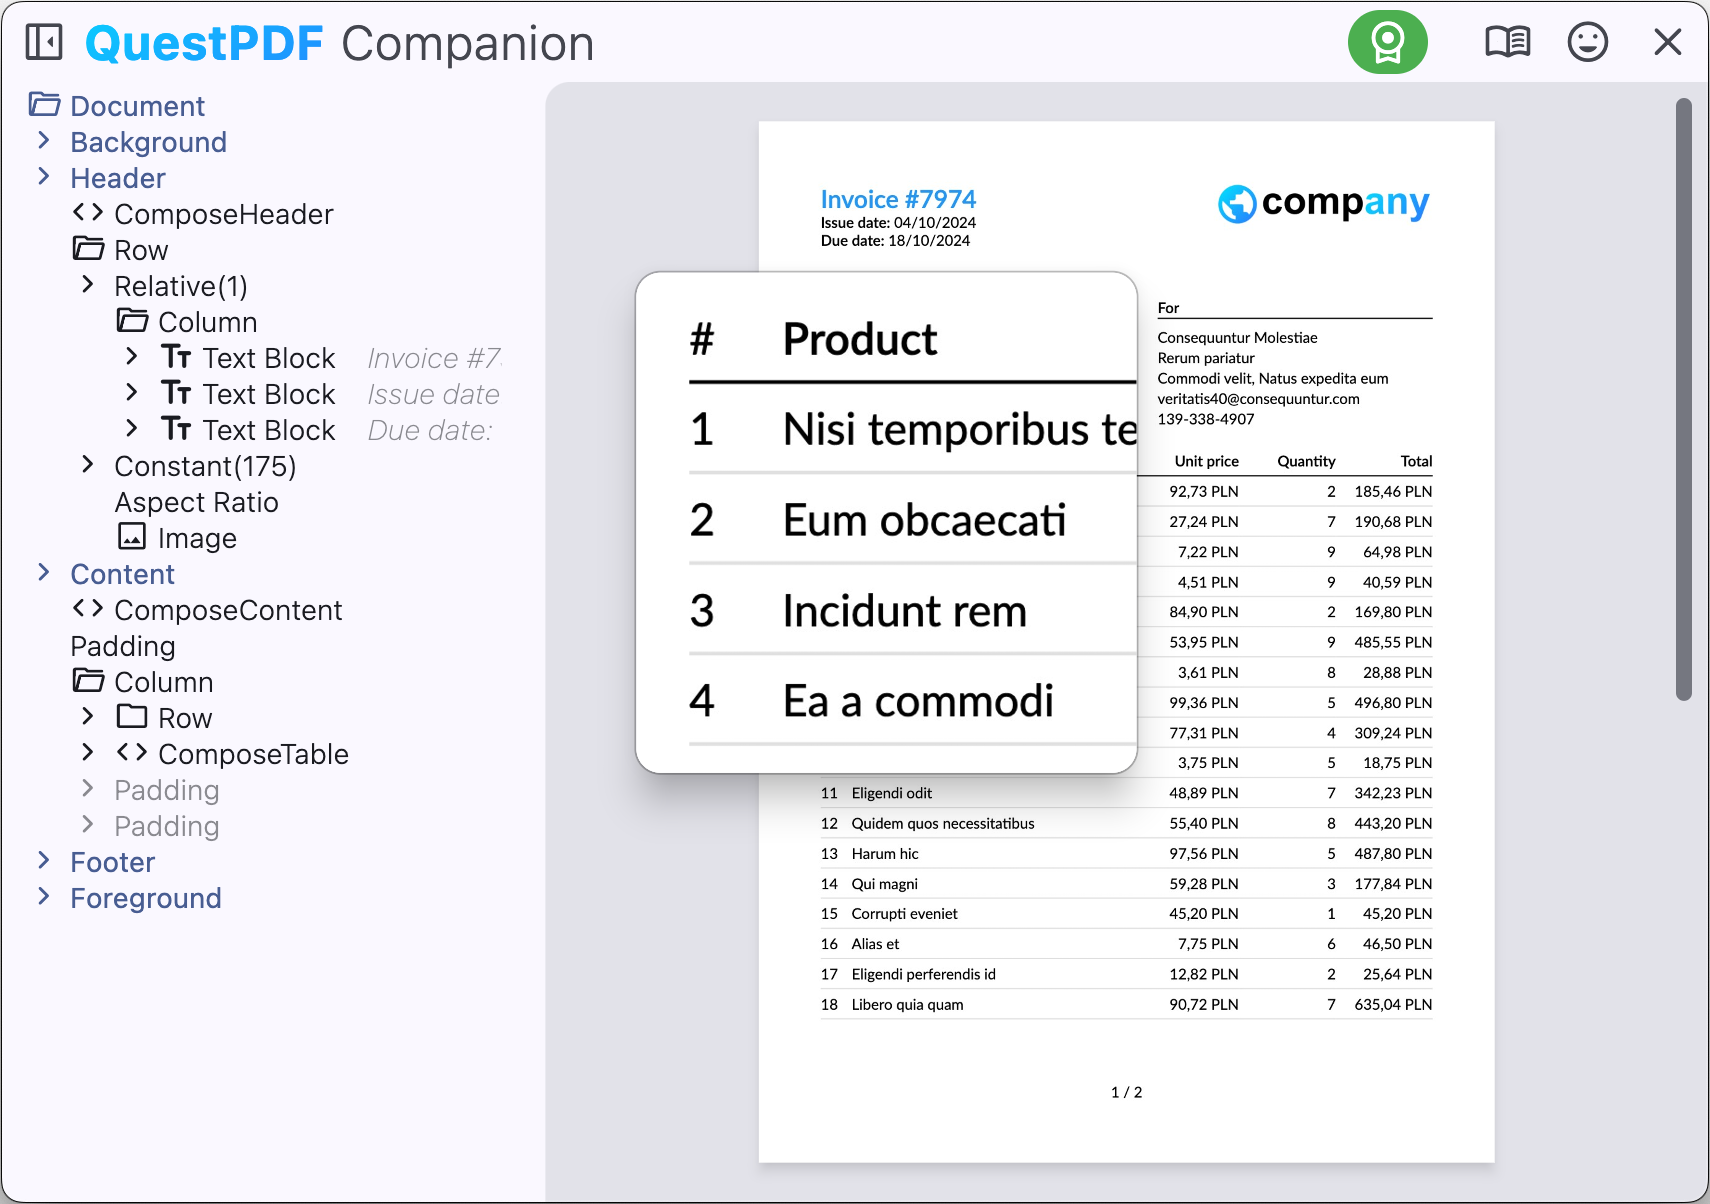
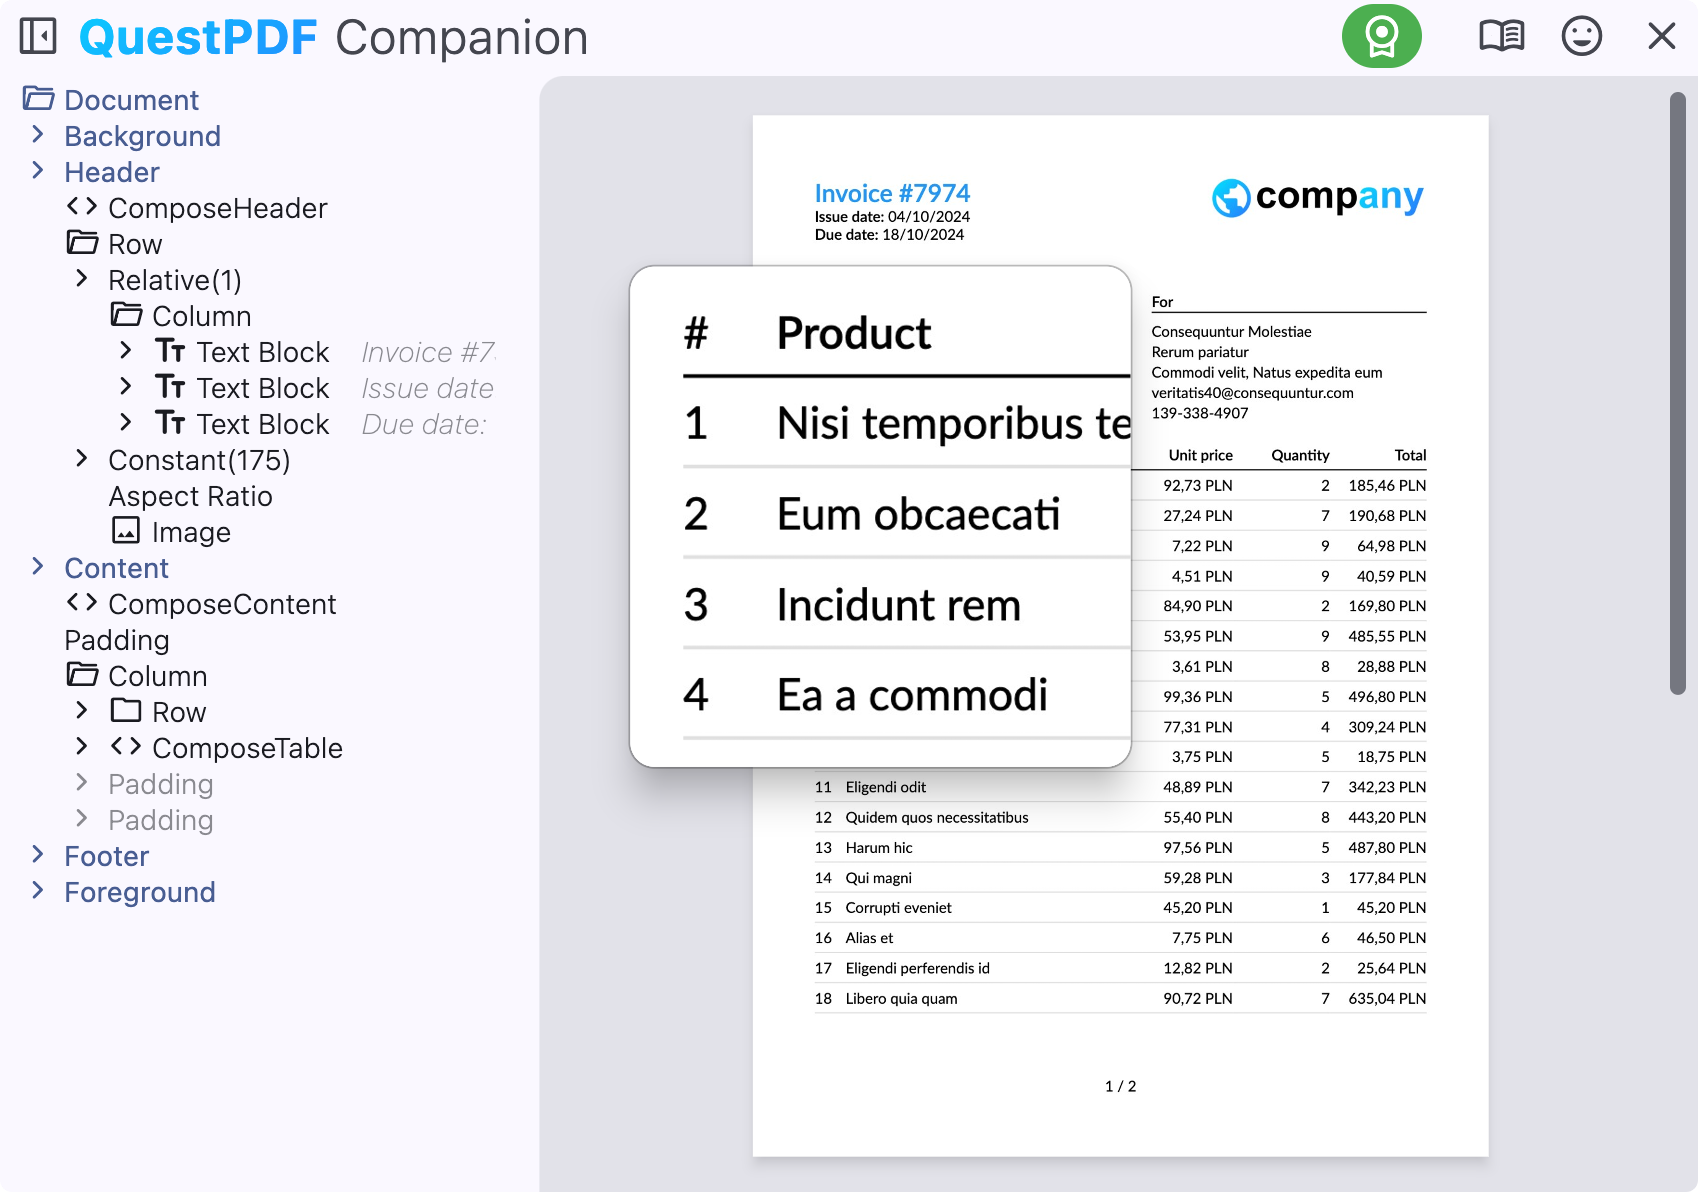
Fix Companion App screenshots

diff --git a/docs/.vitepress/theme/VitepressAdjustments.css b/docs/.vitepress/theme/VitepressAdjustments.css
@@ -158,6 +158,7 @@ html:not(.dark) .dark-only {
 
 .companion-screenshot {
     border-radius: 8px;
+    border: 1px solid #8886;
     box-shadow: 0 13px 27px -5px rgb(50 50 93 / 15%), 0 8px 16px -8px rgb(0 0 0 / 10%), 0 -6px 16px -6px rgb(0 0 0 / 5%);
 }
 

diff --git a/docs/.vitepress/theme/homepage/HomePageCompanion.vue b/docs/.vitepress/theme/homepage/HomePageCompanion.vue
@@ -58,6 +58,8 @@ const SummaryContent = [
 }
 
 img {
+  border-radius: 8px;
+  border: 1px solid #8886;
   filter: drop-shadow(0 16px 16px rgba(0,  0, 0, 0.1));
 }
 
